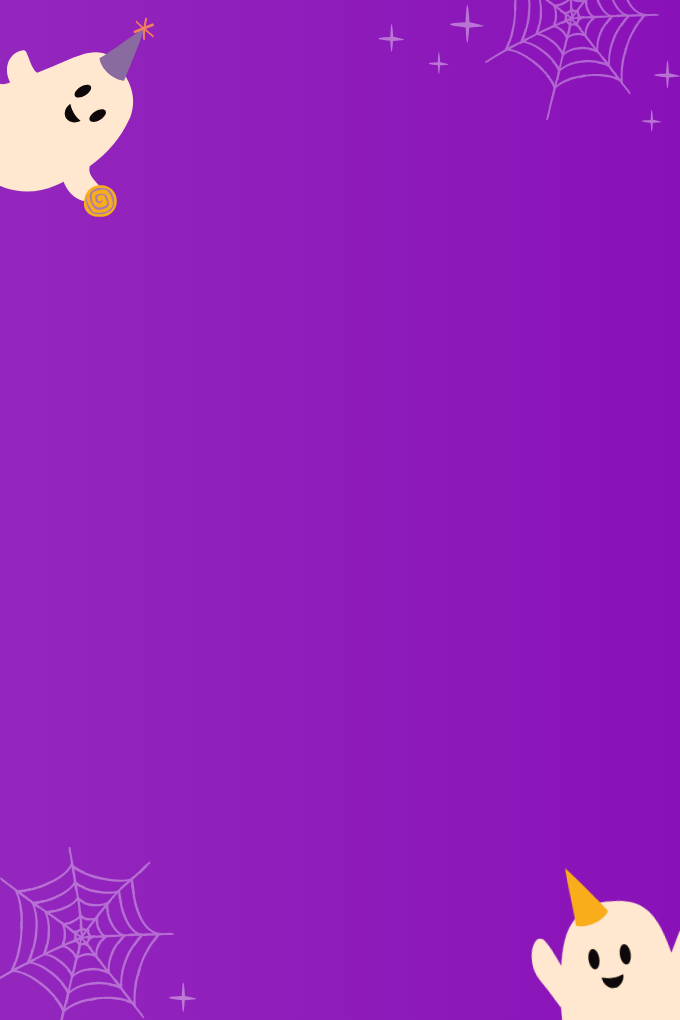
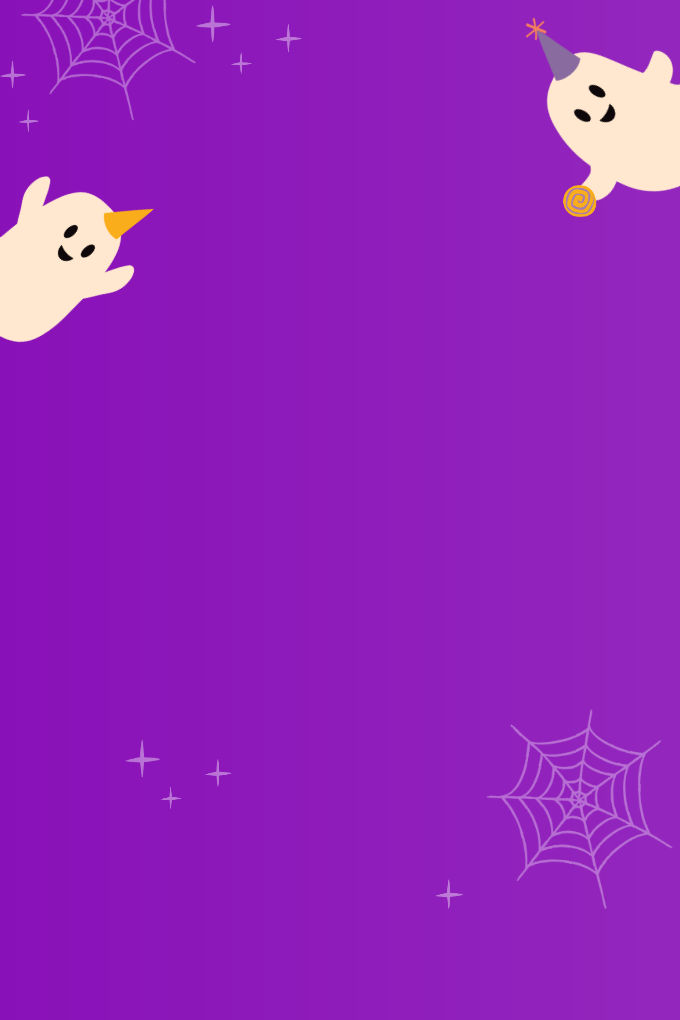
New Christmas and Halloween desktop panel art
- Christmas: new Figma panel (2626:65798), mirrored so the gingerbread sits top-left
- Halloween: updated ghost art (680x1020) with the waving ghost beside the headline

diff --git a/index.html b/index.html
@@ -350,7 +350,7 @@
      tablet & phone = compact banner under the title.
      Each theme only sets the variables below. */
   #iapOverlay[data-holiday="christmas"] {
-    --hol-panel: #019049 url(assets/christmas/bg-panel.png?v=2) center top / cover no-repeat;
+    --hol-panel: #019049 url(assets/christmas/bg-panel.jpg?v=3) center top / cover no-repeat;
     --hol-banner: #019049 url(assets/christmas/bg-banner.png) center / cover no-repeat;
     --hol-tint: rgba(1,144,73,.05);   /* panel green #019049 (sampled from bg-panel.png) at 5% */
     --hol-tint-solid: #F2F9F6;        /* same over white, opaque */
@@ -374,7 +374,7 @@
   .iap-hol { display: none; }
   .iap-incl-card { display: contents; }
   #iapOverlay[data-holiday="halloween"] {
-    --hol-panel: #8E1CBB url(assets/halloween/bg-panel.png) center top / cover no-repeat;
+    --hol-panel: #8E1CBB url(assets/halloween/bg-panel.png?v=7) center top / cover no-repeat;
     --hol-banner: #8E1CBB url(assets/halloween/bg-banner.png) center / cover no-repeat;
     --hol-tint: rgba(142,28,187,.05);  /* panel purple #8E1CBB (sampled from bg-panel.png) at 5% */
     --hol-tint-solid: #F9F4FC;

diff --git a/src/iap-popup.html b/src/iap-popup.html
@@ -333,7 +333,7 @@
      tablet & phone = compact banner under the title.
      Each theme only sets the variables below. */
   #iapOverlay[data-holiday="christmas"] {
-    --hol-panel: #019049 url(assets/christmas/bg-panel.png?v=2) center top / cover no-repeat;
+    --hol-panel: #019049 url(assets/christmas/bg-panel.jpg?v=3) center top / cover no-repeat;
     --hol-banner: #019049 url(assets/christmas/bg-banner.png) center / cover no-repeat;
     --hol-tint: rgba(1,144,73,.05);   /* panel green #019049 (sampled from bg-panel.png) at 5% */
     --hol-tint-solid: #F2F9F6;        /* same over white, opaque */
@@ -357,7 +357,7 @@
   .iap-hol { display: none; }
   .iap-incl-card { display: contents; }
   #iapOverlay[data-holiday="halloween"] {
-    --hol-panel: #8E1CBB url(assets/halloween/bg-panel.png) center top / cover no-repeat;
+    --hol-panel: #8E1CBB url(assets/halloween/bg-panel.png?v=7) center top / cover no-repeat;
     --hol-banner: #8E1CBB url(assets/halloween/bg-banner.png) center / cover no-repeat;
     --hol-tint: rgba(142,28,187,.05);  /* panel purple #8E1CBB (sampled from bg-panel.png) at 5% */
     --hol-tint-solid: #F9F4FC;
